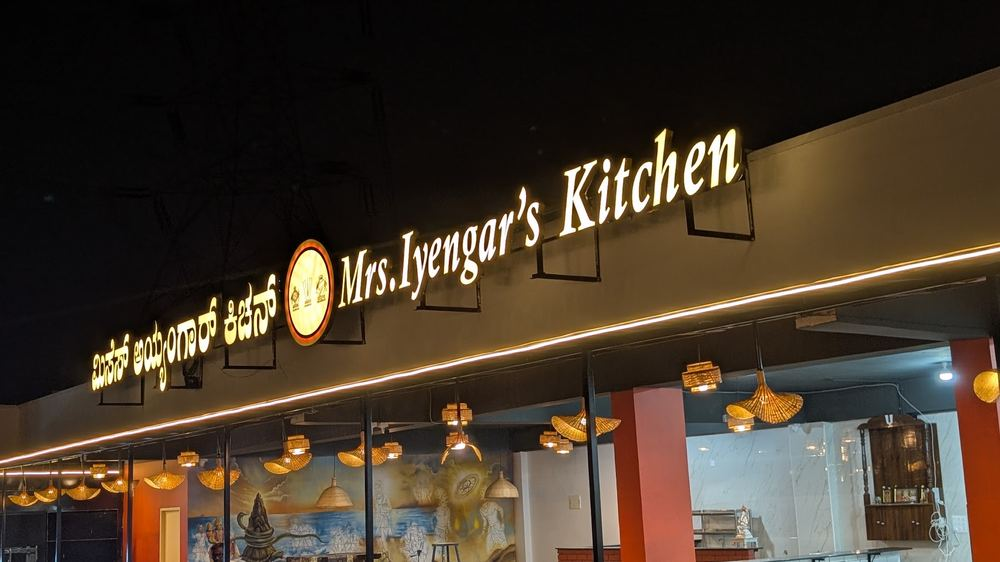
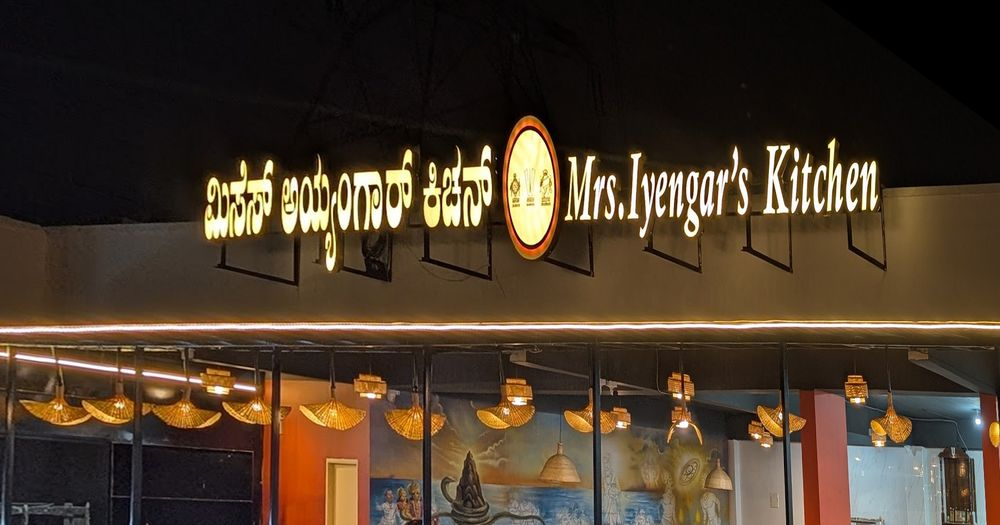
Polish: matching cards, sharp party photos, level sign, quicker animations
- Why us cards share one style; only the satvik card stays maroon
- Party hall section uses the sharp Google photos instead of PDF crops
- Hero storefront photo is perspective-corrected so the sign reads level
- Scroll fade-in starts before a section is on screen and runs faster

diff --git a/index.html b/index.html
@@ -13,12 +13,12 @@
 <meta property="og:description" content="Pure veg, satvik Iyengar food. No onion, no garlic. KR Puram, Bengaluru. Party hall and outdoor catering.">
 <meta property="og:image" content="images/storefront.jpg">
 <meta name="twitter:card" content="summary_large_image">
-<link rel="preload" as="image" href="images/storefront.jpg" imagesrcset="images/storefront-sm.jpg 1000w, images/storefront.jpg 1600w" imagesizes="100vw">
+<link rel="preload" as="image" href="images/storefront.jpg?v=2" imagesrcset="images/storefront-sm.jpg?v=2 1000w, images/storefront.jpg?v=2 1600w" imagesizes="100vw">
 <link rel="preconnect" href="https://fonts.googleapis.com">
 <link rel="preconnect" href="https://fonts.gstatic.com" crossorigin>
 <link href="https://fonts.googleapis.com/css2?family=Fraunces:ital,opsz,wght@0,9..144,500;0,9..144,700;1,9..144,500&family=Inter:wght@400;500;600;700&family=Noto+Sans+Kannada:wght@600&display=swap" rel="stylesheet">
 <script>document.documentElement.classList.add('js')</script>
-<link rel="stylesheet" href="styles.css?v=3">
+<link rel="stylesheet" href="styles.css?v=7">
 <script type="application/ld+json">
 {"@context":"https://schema.org","@type":"Restaurant","name":"Mrs. Iyengar's Kitchen","servesCuisine":["South Indian","Iyengar","Vegetarian"],"priceRange":"₹1–200","telephone":"+91-98801-86251","image":"images/storefront.jpg","address":{"@type":"PostalAddress","streetAddress":"Fourth floor, The Terminal building, Survey 61/2, Hoodi Main Rd, Ayyappa Nagar","addressLocality":"Krishnarajapuram, Bengaluru","addressRegion":"Karnataka","postalCode":"560048","addressCountry":"IN"},"openingHours":"Mo-Su 07:30-22:30","sameAs":["https://www.instagram.com/mrs_iyengars_kitchen/"]}
 </script>
@@ -76,7 +76,7 @@
 <!-- HERO -->
 <section class="hero" id="top">
   <svg class="mandala hero-mandala" style="color:#f5c83a" aria-hidden="true"><use href="#mandala"/></svg>
-  <div class="hero-bg"><img src="images/storefront.jpg" srcset="images/storefront-sm.jpg 1000w, images/storefront.jpg 1600w" sizes="100vw" alt="Mrs. Iyengar's Kitchen glowing sign and entrance at night" fetchpriority="high"></div>
+  <div class="hero-bg"><img src="images/storefront.jpg?v=2" srcset="images/storefront-sm.jpg?v=2 1000w, images/storefront.jpg?v=2 1600w" sizes="100vw" alt="Mrs. Iyengar's Kitchen glowing sign and entrance at night" fetchpriority="high"></div>
   <div class="wrap hero-grid">
     <div class="hero-copy">
       <span class="pill" data-open-status><i class="live"></i><span>Open daily · 7:30 am – 10:30 pm</span></span>
@@ -229,10 +229,10 @@
         <h3>Our famous Puliyogare</h3>
         <p>Tangy tamarind rice with roasted peanuts and our own spice blend, the dish Iyengar kitchens are known for.</p>
       </div>
-      <div class="tile t-maroon reveal"><div class="ic"><svg><use href="#i-ban"/></svg></div><h3>No onion, no garlic</h3><p>Satvik food, every dish.</p></div>
+      <div class="tile t-maroon reveal"><svg class="mandala" style="color:#f5c83a" aria-hidden="true"><use href="#mandala"/></svg><div class="ic"><svg><use href="#i-ban"/></svg></div><h3>No onion, no garlic</h3><p>Satvik food, every dish.</p></div>
       <div class="tile reveal"><div class="ic"><svg><use href="#i-heart"/></svg></div><h3>Tastes like home</h3><p>Recipes from an Iyengar family kitchen.</p></div>
-      <div class="tile t-gold reveal"><div class="ic"><svg><use href="#i-bag"/></svg></div><h3>Dine in or take away</h3><p>Or order online for delivery.</p></div>
-      <div class="tile t-green reveal"><div class="ic"><svg><use href="#i-rupee"/></svg></div><h3>Honest prices</h3><p>Most plates ₹1–200 per person.</p></div>
+      <div class="tile reveal"><div class="ic"><svg><use href="#i-bag"/></svg></div><h3>Dine in or take away</h3><p>Or order online for delivery.</p></div>
+      <div class="tile reveal"><div class="ic"><svg><use href="#i-rupee"/></svg></div><h3>Honest prices</h3><p>Most plates ₹1–200 per person.</p></div>
       <div class="tile t-clock reveal">
         <div><h3>Breakfast to dinner</h3><p>Open every day of the week.</p></div>
         <div class="big">7:30 am – 10:30 pm<small>Every day</small></div>
@@ -289,8 +289,8 @@
   <div class="wrap party-grid">
     <div class="party-img reveal">
       <img src="images/party-hall.jpg" alt="Sabhagrha party hall set up with round tables" loading="lazy">
-      <img src="images/party-1.jpg" alt="Decorated table with flowers and a brass lamp" loading="lazy">
-      <img src="images/party-4.jpg" alt="Party hall with banquet seating" loading="lazy">
+      <img src="images/mural.jpg" alt="Temple-mural hall with long dining tables" loading="lazy">
+      <img src="images/dining-wide.jpg" alt="Spacious dining hall with the painted mural" loading="lazy">
     </div>
     <div class="reveal">
       <span class="eyebrow">Party hall &amp; outdoor catering</span>
@@ -318,7 +318,7 @@
     </div>
     <div class="visit-grid">
       <div class="info reveal">
-        <img class="shop" src="images/dining-wide.jpg" alt="Mrs. Iyengar's Kitchen dining hall" loading="lazy">
+        <img class="shop" src="images/storefront-sm.jpg?v=2" alt="Mrs. Iyengar's Kitchen lit sign at night" loading="lazy">
         <div class="info-body">
           <div class="row"><span class="ri"><svg><use href="#i-pin"/></svg></span><div><b>Address</b>Fourth floor, The Terminal building, Survey 61/2, Hoodi Main Rd, Ayyappa Nagar, near Bristal Fit Gym, Krishnarajapuram, Bengaluru 560048</div></div>
           <div class="row"><span class="ri"><svg><use href="#i-clock"/></svg></span><div><b>Hours</b><span class="open">Open every day</span> · 7:30 am – 10:30 pm</div></div>
@@ -456,6 +456,6 @@
 </dialog>
 <!--/FOOTER-->
 
-<script src="script.js?v=1"></script>
+<script src="script.js?v=3"></script>
 </body>
 </html>

diff --git a/styles.css b/styles.css
@@ -168,10 +168,14 @@ h2{font-size:clamp(2.1rem,4.6vw,3.4rem);margin:14px 0 16px;color:var(--maroon-d)
 /* ============ WHY US (BENTO) ============ */
 #why{background:var(--cream)}
 .bento{display:grid;grid-template-columns:repeat(4,1fr);grid-auto-rows:210px;gap:18px;margin-top:50px}
-.tile{border-radius:var(--r);padding:28px;position:relative;overflow:hidden;display:flex;flex-direction:column;justify-content:flex-end;background:#fff;box-shadow:0 10px 28px rgba(120,60,10,.07)}
+.tile{border-radius:var(--r);padding:28px;position:relative;overflow:hidden;display:flex;flex-direction:column;justify-content:flex-end;background:linear-gradient(180deg,#fffaf0,#fdf1d8);border:1px solid #efdcb4;box-shadow:0 10px 28px rgba(120,60,10,.07);transition:transform .3s,box-shadow .3s}
+.tile:not(.t-big):not(.t-maroon):not(.t-clock)::before{content:"";position:absolute;left:28px;right:28px;top:0;height:3px;border-radius:0 0 3px 3px;background:linear-gradient(90deg,var(--turmeric),var(--saffron))}
+.tile:hover{transform:translateY(-4px);box-shadow:0 18px 36px rgba(120,60,10,.12)}
+.t-maroon .mandala{width:260px;height:260px;right:-90px;top:-90px;opacity:.14}
+.t-maroon>*:not(.mandala){position:relative}
 .tile h3{font-size:1.35rem;color:var(--maroon-d)}
 .tile p{color:var(--muted);font-size:.92rem;margin-top:6px}
-.tile .ic{position:absolute;top:24px;left:28px;width:48px;height:48px;border-radius:14px;display:grid;place-items:center;background:#fdf0d2;color:var(--maroon)}
+.tile .ic{position:absolute;top:24px;left:28px;width:48px;height:48px;border-radius:14px;display:grid;place-items:center;background:var(--maroon);color:var(--turmeric);box-shadow:0 6px 14px rgba(122,22,22,.22)}
 .tile .ic svg{width:24px;height:24px}
 .t-big{grid-column:span 2;grid-row:span 2;color:#fff;padding:34px}
 .t-big img{position:absolute;inset:0;width:100%;height:100%;object-fit:cover;z-index:0}
@@ -180,7 +184,8 @@ h2{font-size:clamp(2.1rem,4.6vw,3.4rem);margin:14px 0 16px;color:var(--maroon-d)
 .t-big img{position:absolute}
 .t-big h3{color:#fff;font-size:2rem}
 .t-big p{color:#f0dccb;font-size:1rem;max-width:440px}
-.t-maroon{background:linear-gradient(145deg,#8f1d1d,var(--maroon-dd));color:#fff}
+.t-maroon{background:linear-gradient(145deg,#8f1d1d,var(--maroon-dd));color:#fff;border-color:transparent}
+.t-maroon .ic{position:absolute;box-shadow:none}
 .t-maroon h3{color:#fff}
 .t-maroon p{color:#e6cdb9}
 .t-maroon .ic{background:rgba(255,255,255,.1);color:var(--turmeric)}
@@ -326,7 +331,7 @@ dialog[open]{animation:pop .25s ease}
 .dlg-body ul{padding-left:20px}
 
 /* reveal + entrance */
-html.js .reveal{opacity:0;transform:translateY(34px);transition:opacity .8s ease,transform .8s cubic-bezier(.2,.7,.2,1)}
+html.js .reveal{opacity:0;transform:translateY(24px);transition:opacity .45s ease,transform .5s cubic-bezier(.2,.7,.2,1),box-shadow .3s}
 html.js .reveal.in{opacity:1;transform:none}
 .hero-copy>*{animation:rise .9s cubic-bezier(.2,.7,.2,1) both}
 .hero-copy>*:nth-child(2){animation-delay:.1s}
@@ -347,7 +352,7 @@ html.js .reveal.in{opacity:1;transform:none}
   .tagline .veg{width:24px;height:24px;margin-top:.3em;border-width:2.5px;background:radial-gradient(circle,#4ade80 0 5px,transparent 5.5px)}
   /* whole photo, full hero height, pinned right; the left side fades to maroon so the text sits on plain colour below the sign */
   .hero{background:radial-gradient(900px 600px at 0% 100%,rgba(245,200,58,.12),transparent 60%),var(--maroon-dd)}
-  .hero-bg img{position:absolute;top:0;right:0;left:auto;height:100%;width:auto;max-width:none;min-width:62%;object-fit:cover;object-position:50% 20%;
+  .hero-bg img{position:absolute;top:-7%;right:0;left:auto;height:107%;width:auto;max-width:none;min-width:62%;object-fit:cover;object-position:50% 20%;
     -webkit-mask-image:linear-gradient(90deg,transparent 0,rgba(0,0,0,.35) 26%,#000 42%);mask-image:linear-gradient(90deg,transparent 0,rgba(0,0,0,.35) 26%,#000 42%)}
   /* fill the left side: gold dot pattern and a slow mandala behind the text */
   .hero::before{content:"";position:absolute;inset:0;z-index:1;pointer-events:none;background-image:radial-gradient(rgba(245,200,58,.16) 1.3px,transparent 1.3px);background-size:26px 26px;-webkit-mask-image:linear-gradient(90deg,#000 0,transparent 55%);mask-image:linear-gradient(90deg,#000 0,transparent 55%)}

diff --git a/script.js b/script.js
@@ -113,12 +113,12 @@ document.querySelectorAll('#yr, .yr').forEach(el => el.textContent = yr);
 const groups = new Map();
 document.querySelectorAll('.reveal').forEach(el => {
   const n = groups.get(el.parentElement) || 0;
-  el.style.transitionDelay = (n % 4) * 90 + 'ms';
+  el.style.transitionDelay = (n % 3) * 50 + 'ms';
   groups.set(el.parentElement, n + 1);
 });
 const io = new IntersectionObserver(entries => entries.forEach(en => {
-  if (en.isIntersecting) { en.target.classList.add('in'); io.unobserve(en.target); }
-}), { threshold: .12, rootMargin: '0px 0px -40px 0px' });
+  if (en.isIntersecting) { const t = en.target; t.classList.add('in'); io.unobserve(t); setTimeout(() => t.style.transitionDelay = '', 700); }
+}), { threshold: 0, rootMargin: '0px 0px 20% 0px' });
 document.querySelectorAll('.reveal').forEach(el => io.observe(el));
 
 // Full menu: search box and section chips that follow your scroll

diff --git a/menu.html b/menu.html
@@ -17,7 +17,7 @@
 <link rel="preconnect" href="https://fonts.gstatic.com" crossorigin>
 <link href="https://fonts.googleapis.com/css2?family=Fraunces:ital,opsz,wght@0,9..144,500;0,9..144,700;1,9..144,500&family=Inter:wght@400;500;600;700&family=Noto+Sans+Kannada:wght@600&display=swap" rel="stylesheet">
 <script>document.documentElement.classList.add('js')</script>
-<link rel="stylesheet" href="styles.css?v=3">
+<link rel="stylesheet" href="styles.css?v=7">
 </head>
 <body>
 
@@ -573,6 +573,6 @@
 </dialog>
 <!--/FOOTER-->
 
-<script src="script.js?v=1"></script>
+<script src="script.js?v=3"></script>
 </body>
 </html>

diff --git a/tools/build_menu.py b/tools/build_menu.py
@@ -178,7 +178,7 @@ def build():
 <link rel="preconnect" href="https://fonts.gstatic.com" crossorigin>
 <link href="https://fonts.googleapis.com/css2?family=Fraunces:ital,opsz,wght@0,9..144,500;0,9..144,700;1,9..144,500&family=Inter:wght@400;500;600;700&family=Noto+Sans+Kannada:wght@600&display=swap" rel="stylesheet">
 <script>document.documentElement.classList.add('js')</script>
-<link rel="stylesheet" href="styles.css?v=3">
+<link rel="stylesheet" href="styles.css?v=7">
 </head>
 <body>
 
@@ -231,7 +231,7 @@ def build():
 
 {foot}
 
-<script src="script.js?v=1"></script>
+<script src="script.js?v=3"></script>
 </body>
 </html>
 '''
